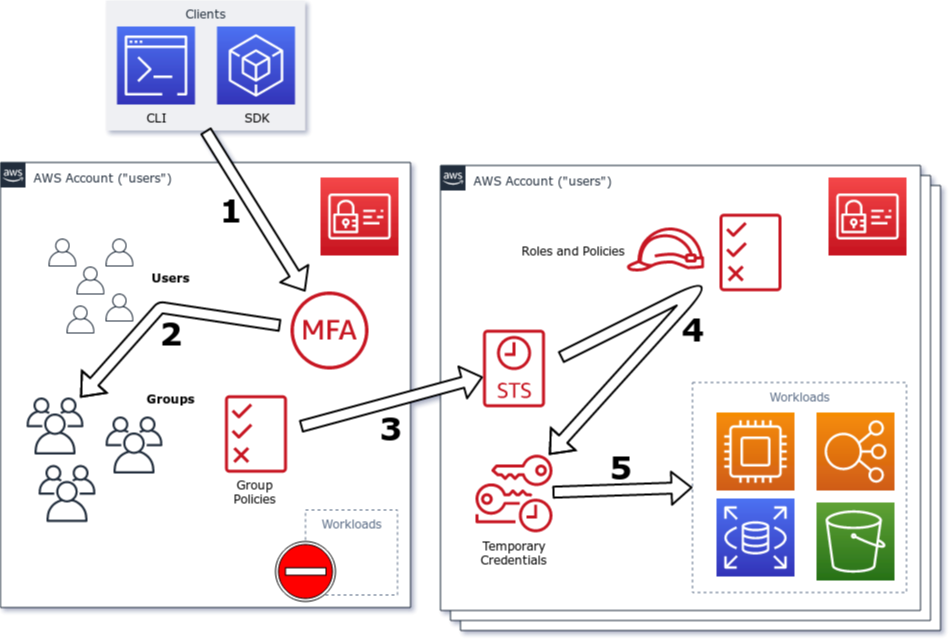
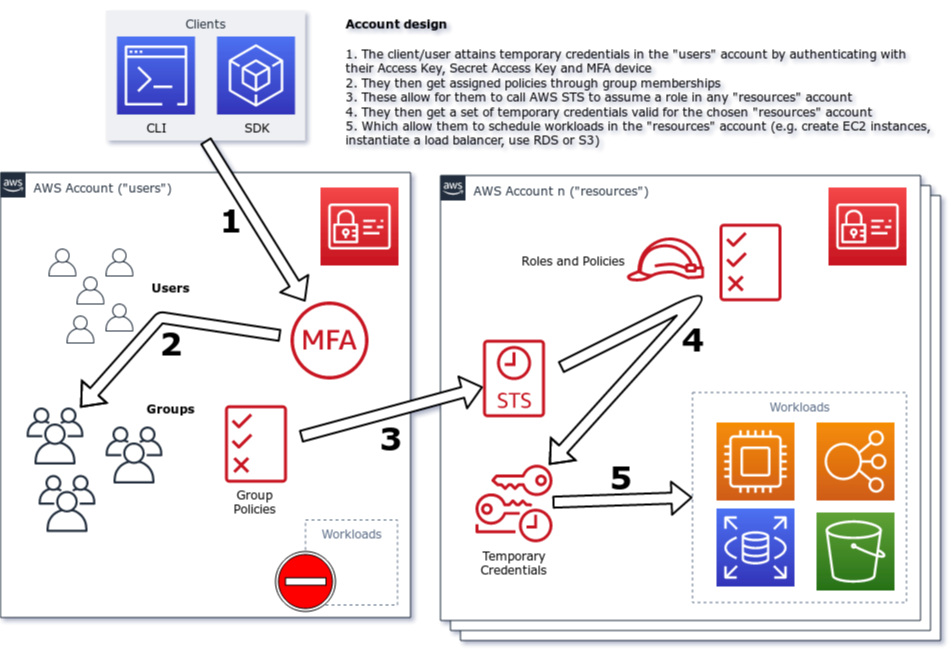
Updated IAM diagram

diff --git a/README.md b/README.md
@@ -44,11 +44,11 @@ Some of them can receive extra parameters. See a table reference below.
 
 ### Example
 
-Add the following statement to your `variables.tf` to use the `config` module in version `v0.3.5`:
+Add the following statement to your `variables.tf` to use the `config` module in version `v0.3.6`:
 
 ```terraform
 module "aws_config" {
-  source = "git::https://github.com/moritzheiber/terraform-aws-core-modules.git//config?ref=v0.3.5"
+  source = "git::https://github.com/moritzheiber/terraform-aws-core-modules.git//config?ref=v0.3.6"
 
   # Optional, defaults to "aws-config"
   bucket_prefix = "my-aws-config-bucket"
@@ -91,12 +91,6 @@ A module to configure the "users" account modeled after a common security princi
 
 ![AWS IAM setup illustration](files/aws_iam_setup.png)
 
-1. The client/user attains temporary credentials in the "users" account by authenticating with their MFA device
-2. They then get assigned policies through group memberships
-3. These allow for them to call [AWS STS](https://docs.aws.amazon.com/STS/latest/APIReference/Welcome.html) to assume a role in the "resources" account
-4. They then get a set of temporary credentials valid for the "resources"
-5. Which allow them to schedule workloads in the "resources" account (e.g. create EC2 instances, instantiate a load balancer, use RDS or S3)
-
 This is modeled after a strict separation of privilege, as explained in [an article I wrote a while ago](https://www.thoughtworks.com/insights/blog/using-aws-security-first-class-citizen).
 
 Usually you will want to use this module together with [`iam-resources`](#iam-resources) module.
@@ -105,7 +99,7 @@ Usually you will want to use this module together with [`iam-resources`](#iam-re
 
 ```terraform
 module "iam_users" {
-  source            = "git::https://github.com/moritzheiber/terraform-aws-core-modules.git//iam-users?ref=v0.3.5"
+  source            = "git::https://github.com/moritzheiber/terraform-aws-core-modules.git//iam-users?ref=v0.3.6"
   iam_account_alias = "my_unique_alias"
 }
 
@@ -140,7 +134,7 @@ A module to configure the "resources" account modeled after a common security pr
 
 ```terraform
 module "iam_resources" {
-  source            = "git::https://github.com/moritzheiber/terraform-aws-core-modules.git//iam-resources?ref=v0.3.5"
+  source            = "git::https://github.com/moritzheiber/terraform-aws-core-modules.git//iam-resources?ref=v0.3.6"
   iam_account_alias = "my_unique_alias"
 }
 
@@ -173,11 +167,11 @@ The module builds a VPC with the default CIDR range of `10.0.0.0/16`, three subn
 
 ### Example
 
-Add the following statement to your `variables.tf` to use the `vpc` module in version `v0.3.5`:
+Add the following statement to your `variables.tf` to use the `vpc` module in version `v0.3.6`:
 
 ```terraform
 module "core_vpc" {
-  source = "git::https://github.com/moritzheiber/terraform-aws-core-modules.git//vpc?ref=v0.3.5"
+  source = "git::https://github.com/moritzheiber/terraform-aws-core-modules.git//vpc?ref=v0.3.6"
 
   tags = {
     Resource    = "my_team_name"
